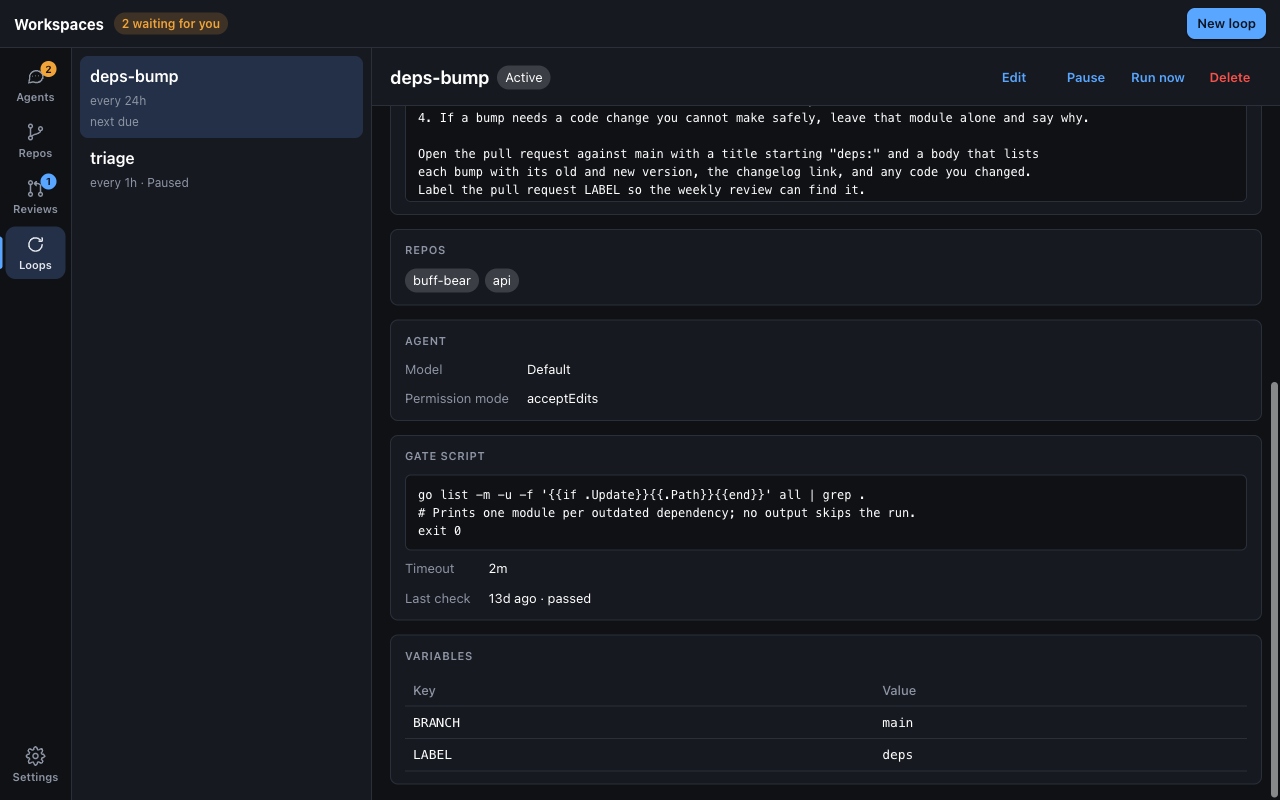
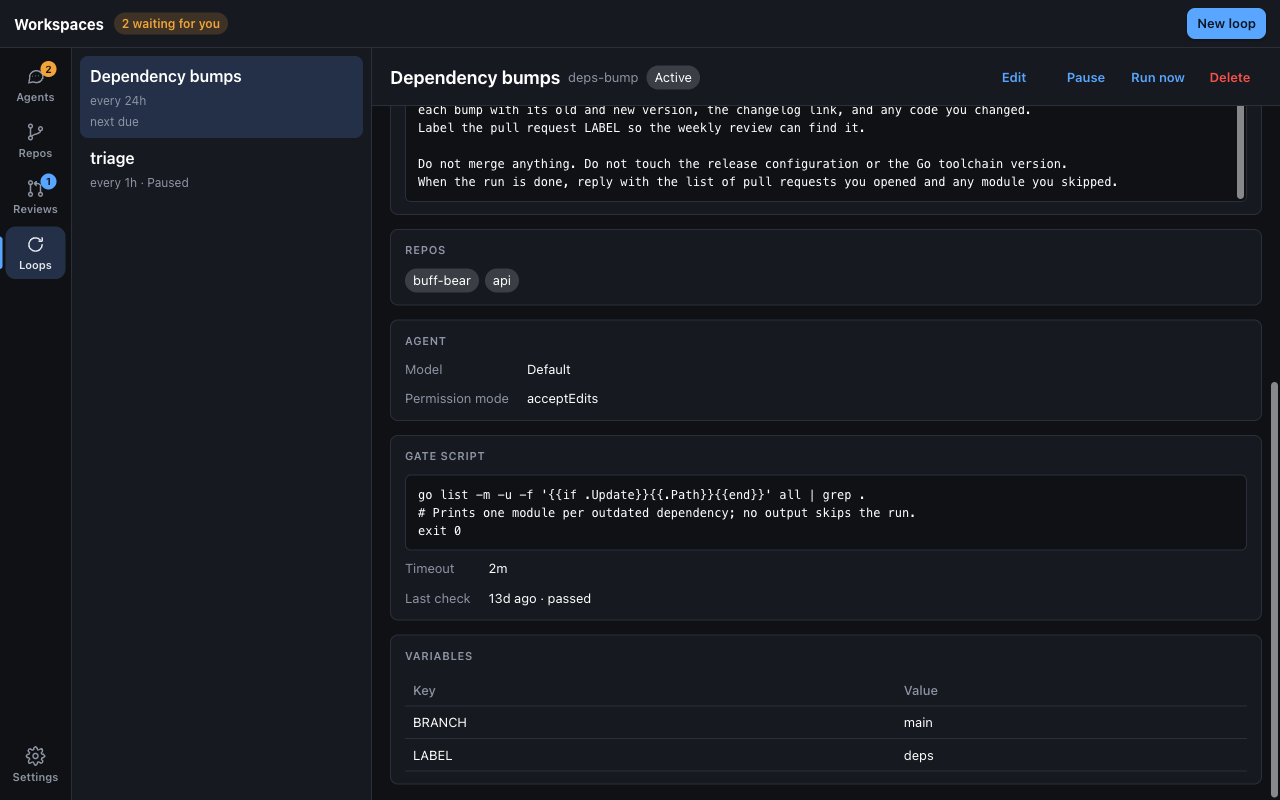
docs: update Loops screenshots for titles and repo suggestions
Claude-Session: https://claude.ai/code/session_01Pd5ZtdyMq44EaP8R7Vkyt6

diff --git a/desktop/README.md b/desktop/README.md
@@ -134,14 +134,16 @@ backend every 5 minutes by default
 
 ![A loop's detail view: Schedule, Prompt, Repos, Agent, Gate script and Variables cards](docs/loops.png)
 
-A loop is edited with **Edit** in its header, in the same form that adds it.
+A loop's name can be any text, such as "Nightly deps bump"; its ID (`nightly-deps-bump`) is derived from it when the loop is added and names its workspaces. A loop is edited with **Edit** in its header, in the same form that adds it.
 The prompt and the gate script show in scrollable monospace blocks.
 
 | **Editing a loop** | **Choosing the period** |
 | --- | --- |
 | ![](docs/loops-edit.png) | ![](docs/loops-edit-period.png) |
-| **The gate script and variables, in the form** | **Adding a loop** |
+| **The gate script and variables, in the form** | **Adding a loop: the ID comes from its name** |
 | ![](docs/loops-edit-script.png) | ![](docs/loops-new.png) |
+| **Repos suggested from the cache** | |
+| ![](docs/loops-new-repos.png) | |
 
 | **A loop's gate script, last check and variables** | **A paused loop with no gate script** |
 | --- | --- |
